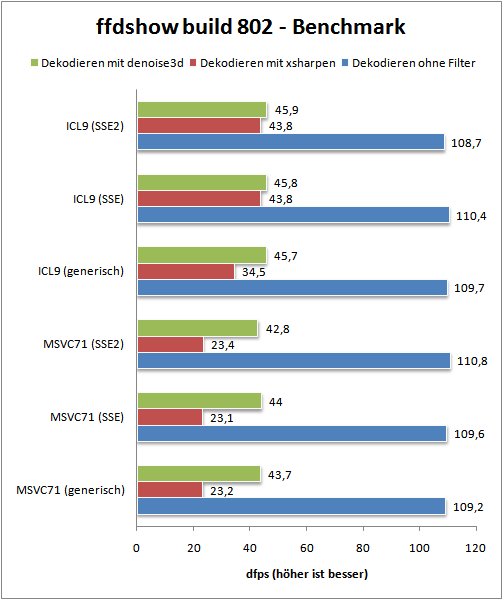
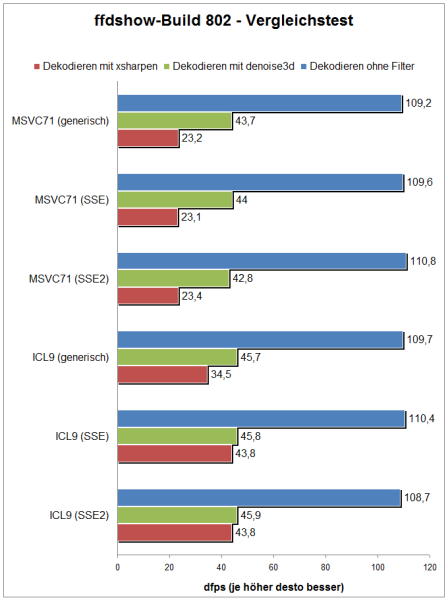
Converted gif -> png Updated benchmark.pngs Updated benchmark.xls
git-svn-id: svn://svn.code.sf.net/p/ffdshow-tryout/code/trunk@837 3b938f2f-1a1a-0410-8054-a526ea5ff92c

diff --git a/htmlhelp/html/de/faq.htm b/htmlhelp/html/de/faq.htm
@@ -14,11 +14,11 @@
   <a href="http://ffdshow-tryout.sourceforge.net/phpBB2/">
     <img src="../images/logo_phpBB.png" width="200" height="91" title="ffdshow tryouts" alt="ffdshow tryouts" />
   </a>
-  
+
   <div style="text-align:right" class="smallest_caption">
-    &Uuml;bersetzungen verf&uuml;gbar in:
-    &nbsp;<a class="nav" href="../en/faq.htm"><img src="../images/england.gif" title="Englische FAQ" alt="Englische FAQ" width="27" height="17" />&nbsp;Englisch</a>
-    &nbsp;<a class="nav" href="../jp/faq.htm"><img src="../images/japan.gif" title="Japanische FAQ" alt="Japanische FAQ" width="27" height="17" />&nbsp;Japanisch</a>
+    Translations available in:
+    &nbsp;<a class="nav" href="../en/faq.htm"><img src="../images/england.png" title="English FAQ" alt="English FAQ" width="27" height="17" />&nbsp;English</a>
+    &nbsp;<a class="nav" href="../jp/faq.htm"><img src="../images/japan.png" title="Japanese FAQ" alt="Japanese FAQ" width="27" height="17" />&nbsp;Japanese</a>
   </div>
 
   <p>
@@ -83,7 +83,7 @@
 
   <p>
     <span class="normal">Das folgende Diagramm stellt die m&ouml;glichen Zuw&auml;chse in der Dekodiergeschwindigkeit, wenn optimierte Builds <strong>und</strong> Filter verwendet werden, dar:<br /><br />
-      <img src="images/benchmark.png" width="503" height="600" title="ffdshow-Build-802-Test" alt="ffdshow-Build-802-Test" /><br />
+      <img src="images/benchmark.png" width="448" height="600" title="ffdshow-Build-802-Test" alt="ffdshow-Build-802-Test" /><br />
     </span>
     <span class="small">
       Testsystem: Pentium 4 2.8GHz (Northwood), Windows XP SP2, Null Renderer verwendet<br />
@@ -134,7 +134,7 @@
 
   <div>
     <span class="normal">
-      <a class="nav" href="#top">Zum Anfang&nbsp;<img src="../images/arrow_up.gif" width="12" height="9" alt="" /></a>
+      <a class="nav" href="#top">Zum Anfang&nbsp;<img src="../images/arrow_up.png" width="12" height="9" alt="" /></a>
     </span>
   </div>
 

diff --git a/htmlhelp/html/en/faq.htm b/htmlhelp/html/en/faq.htm
@@ -17,8 +17,8 @@
   
   <div style="text-align:right" class="smallest_caption">
     Translations available in:
-    &nbsp;<a class="nav" href="../de/faq.htm"><img src="../images/germany.gif" title="German FAQ" alt="German FAQ" width="27" height="17" />&nbsp;German</a>
-    &nbsp;<a class="nav" href="../jp/faq.htm"><img src="../images/japan.gif" title="Japanese FAQ" alt="Japanese FAQ" width="27" height="17" />&nbsp;Japanese</a>
+    &nbsp;<a class="nav" href="../de/faq.htm"><img src="../images/germany.png" title="German FAQ" alt="German FAQ" width="27" height="17" />&nbsp;German</a>
+    &nbsp;<a class="nav" href="../jp/faq.htm"><img src="../images/japan.png" title="Japanese FAQ" alt="Japanese FAQ" width="27" height="17" />&nbsp;Japanese</a>
   </div>
   
   <p>
@@ -83,7 +83,7 @@
   
   <p>
     <span class="normal">The following chart illustrates the possible increase in decoding performance when using optimized builds <strong>and</strong> filters:<br /><br />
-      <img src="images/benchmark.png" width="498" height="600" title="ffdshow build 802 benchmark" alt="ffdshow build 802 benchmark" /><br />
+      <img src="images/benchmark.png" width="448" height="600" title="ffdshow build 802 benchmark" alt="ffdshow build 802 benchmark" /><br />
     </span>
     <span class="small">
       Test setup: Pentium 4 2.8GHz (Northwood), Windows XP SP2, using null renderer<br />
@@ -134,7 +134,7 @@
   
   <div>
     <span class="normal">
-      <a class="nav" href="#top">Top&nbsp;<img src="../images/arrow_up.gif" width="12" height="9" alt="" /></a>
+      <a class="nav" href="#top">Top&nbsp;<img src="../images/arrow_up.png" width="12" height="9" alt="" /></a>
     </span>
   </div>
   

diff --git a/htmlhelp/html/jp/faq.htm b/htmlhelp/html/jp/faq.htm
@@ -17,8 +17,8 @@
   
   <div style="text-align:right" class="smallest_caption">
     Translations available in:
-    &nbsp;<a class="nav" href="../en/faq.htm"><img src="../images/england.gif" title="English FAQ" alt="English FAQ" width="27" height="17" />&nbsp;English</a>
-    &nbsp;<a class="nav" href="../de/faq.htm"><img src="../images/germany.gif" title="German FAQ" alt="German FAQ" width="27" height="17" />&nbsp;German</a>    
+    &nbsp;<a class="nav" href="../en/faq.htm"><img src="../images/england.png" title="English FAQ" alt="English FAQ" width="27" height="17" />&nbsp;English</a>
+    &nbsp;<a class="nav" href="../de/faq.htm"><img src="../images/germany.png" title="German FAQ" alt="German FAQ" width="27" height="17" />&nbsp;German</a>    
   </div>
 
   <p>
@@ -132,7 +132,7 @@
 
   <div>
     <span class="normal">
-      <a class="nav" href="#top">Top&nbsp;<img src="../images/arrow_up.gif" width="12" height="9" alt="" /></a>
+      <a class="nav" href="#top">Top&nbsp;<img src="../images/arrow_up.png" width="12" height="9" alt="" /></a>
     </span>
   </div>
   

diff --git a/htmlhelp/html/jp/index.htm b/htmlhelp/html/jp/index.htm
@@ -15,7 +15,7 @@
   
     <div style="text-align:right" class="smallest_caption">
       Translation available in:
-      <a class="nav" href="../en/index.htm"><img src="../images/england.gif" title="English changelog" alt="English changelog" width="27" height="17" />&nbsp;English</a>
+      <a class="nav" href="../en/index.htm"><img src="../images/england.png" title="English changelog" alt="English changelog" width="27" height="17" />&nbsp;English</a>
     </div> 
 
     <p>
@@ -143,7 +143,7 @@
 
     <div>
       <span class="normal">
-        <a class="nav" href="#top">Top&nbsp;<img src="../images/arrow_up.gif" width="12" height="9" alt="" /></a>
+        <a class="nav" href="#top">Top&nbsp;<img src="../images/arrow_up.png" width="12" height="9" alt="" /></a>
       </span>
     </div> 
     

diff --git a/htmlhelp/html/en/index.htm b/htmlhelp/html/en/index.htm
@@ -17,7 +17,7 @@
   
   <div style="text-align:right" class="smallest_caption">
     Translation available in: 
-    <a class="nav" href="../jp/index.htm"><img src="../images/japan.gif" title="Japanese changelog" alt="Japanese changelog" width="27" height="17" />&nbsp;Japanese</a>
+    <a class="nav" href="../jp/index.htm"><img src="../images/japan.png" title="Japanese changelog" alt="Japanese changelog" width="27" height="17" />&nbsp;Japanese</a>
   </div>       
 
   <p>   
@@ -154,7 +154,7 @@
 
   <div>
     <span class="normal">
-      <a class="nav" href="#top">Top&nbsp;<img src="../images/arrow_up.gif" width="12" height="9" alt="" /></a>
+      <a class="nav" href="#top">Top&nbsp;<img src="../images/arrow_up.png" width="12" height="9" alt="" /></a>
     </span>
   </div>    
   

diff --git a/htmlhelp/html/styles/style.css b/htmlhelp/html/styles/style.css
@@ -41,7 +41,7 @@ ul.download {
   list-style-type: square; font-family: Verdana, Arial, Helvetica, sans-serif; font-size: 90%
 }
 ul.links {
-  list-style-image: url(../images/arrow.gif); font-family: Verdana, Arial, Helvetica, sans-serif; font-size: 90%
+  list-style-image: url(../images/arrow.png); font-family: Verdana, Arial, Helvetica, sans-serif; font-size: 90%
 }
 a.nav:link {
 	color: rgb(0,0,0); text-decoration: none; font-weight: bold
